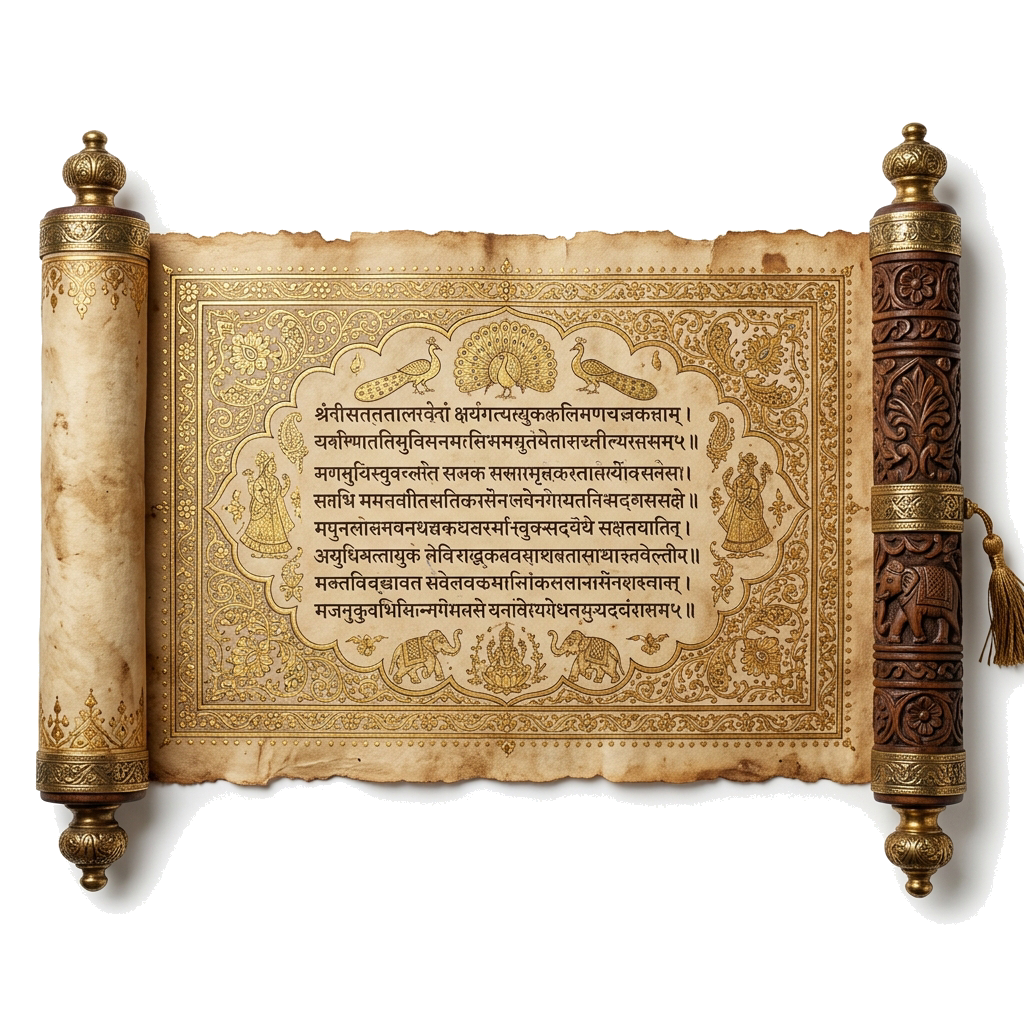
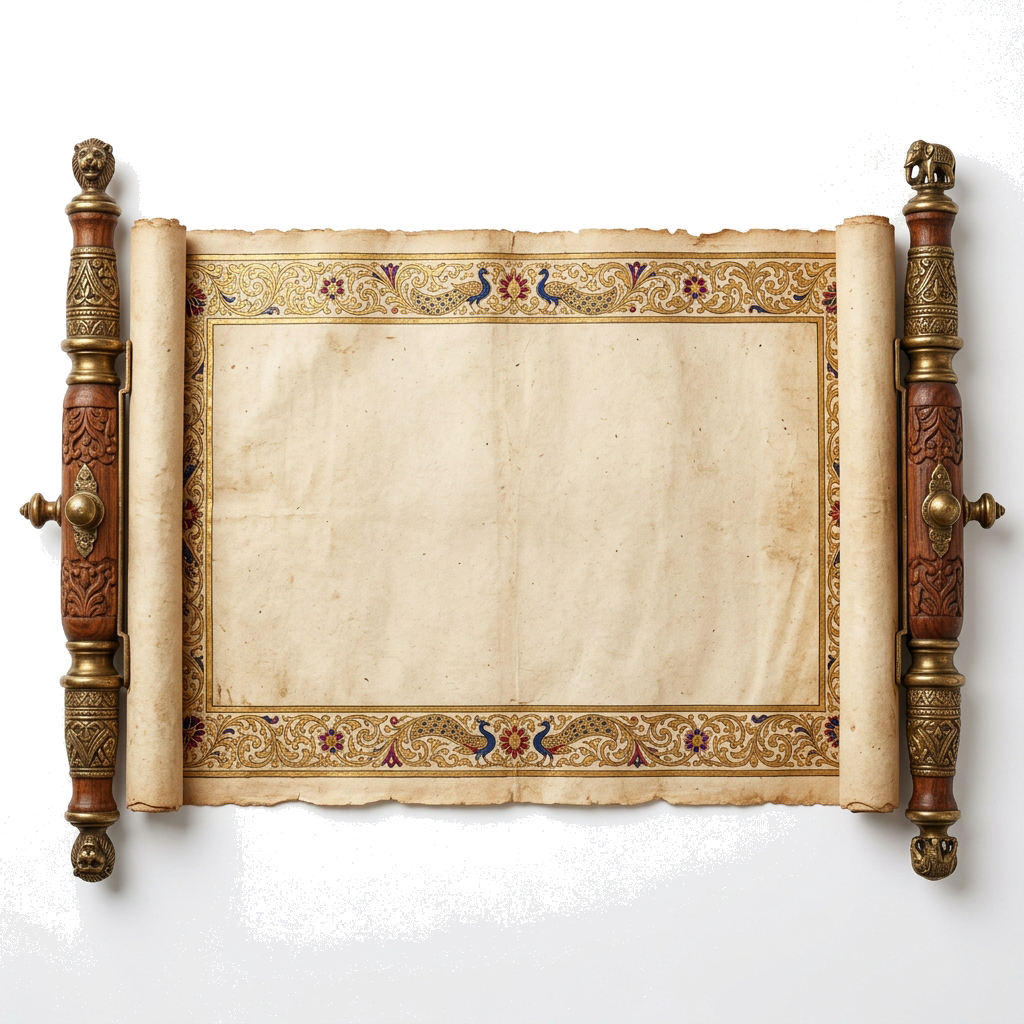
Replace scroll image with a completely blank photorealistic transparent scroll frame and overlay text on top

diff --git a/index.html b/index.html
@@ -14,7 +14,7 @@
   <!-- FontAwesome Icons for UI & Map pin icons -->
   <link rel="stylesheet" href="https://cdnjs.cloudflare.com/ajax/libs/font-awesome/6.4.0/css/all.min.css">
 
-  <link rel="stylesheet" href="styles.css?v=4.0">
+  <link rel="stylesheet" href="styles.css?v=4.1">
 </head>
 <body>
 
@@ -395,6 +395,6 @@
   </main>
 
   <script src="https://www.youtube.com/iframe_api"></script>
-  <script src="app.js?v=4.0"></script>
+  <script src="app.js?v=4.1"></script>
 </body>
 </html>
